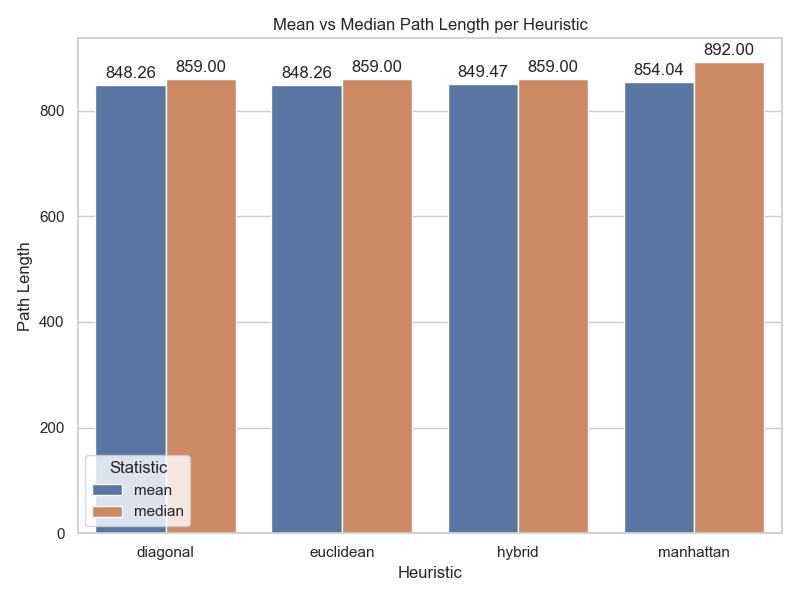
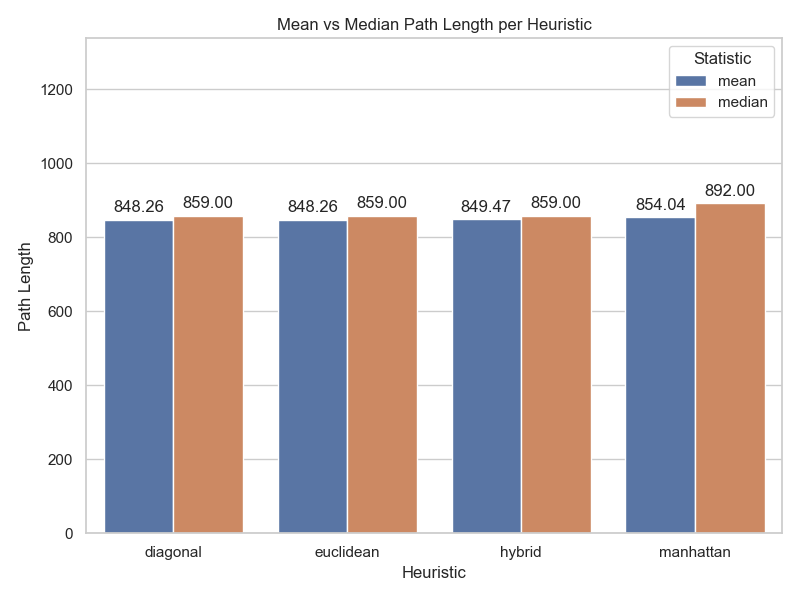
final

diff --git a/src/gen_charts_astar.py b/src/gen_charts_astar.py
@@ -4,8 +4,8 @@ import seaborn as sns
 import os
 
 # graph_names = ["random512-10-0", "arena","maze512-1-0","16room_002"]
-graph_names = ["Map18","random512-10-0", "arena","maze512-1-0","16room_002"]
-# graph_names = ["Map18"]
+# graph_names = ["Map18","random512-10-0", "arena","maze512-1-0","16room_002"]
+graph_names = ["Map18"]
 
 # Paths
 csv_dir = "./results/csv/"
@@ -98,6 +98,8 @@ plt.xlabel("Heuristic")
 for container in plt.gca().containers:
     plt.bar_label(container, fmt="%.2f", padding=3)
 plt.legend(title="Statistic")
+y_max = path_melted["path_length"].max()
+plt.ylim(0, y_max * 1.5)
 plt.tight_layout()
 plt.savefig(save_path + "mean_median_path_length.png")
 plt.close()

diff --git a/src/gen_html_astar_visualize.py b/src/gen_html_astar_visualize.py
@@ -72,8 +72,6 @@ def render_html(grid, path, visited, start, goal, out_file, duration, path_lengt
                 cell_classes[(r, c)] = 'start'
             elif (r, c) == goal:
                 cell_classes[(r, c)] = 'goal'
-            elif grid[r][c] == '@' and (r, c) in visited:
-                cell_classes[(r, c)] = 'wallVisited'
             elif grid[r][c] == '@' or grid[r][c] == 'T':
                 cell_classes[(r, c)] = 'wall'
             elif (r, c) in path:
